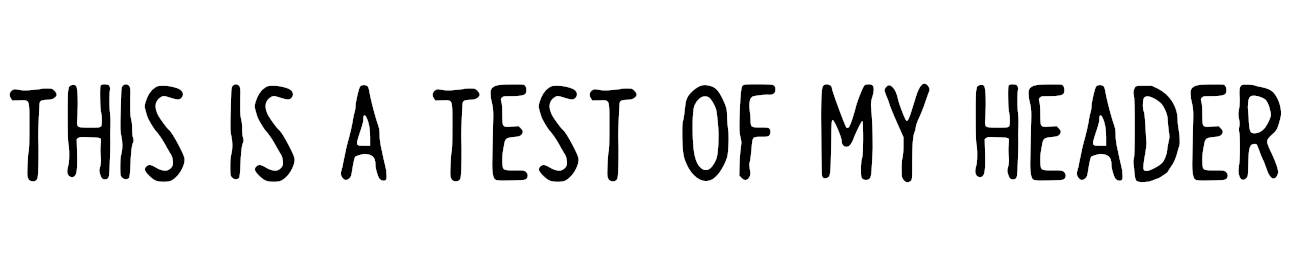
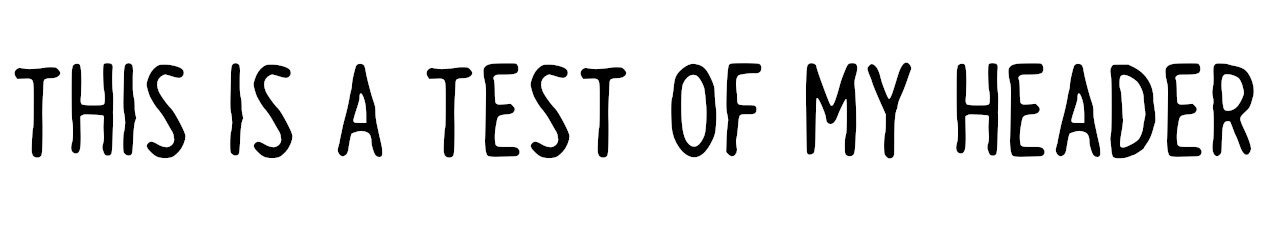
changed header test image to scale better hopefully

diff --git a/public/NewLook/index.html b/public/NewLook/index.html
@@ -13,7 +13,7 @@
 <body>
     <div id="container">
         <div id="headerArea">
-            <div id="header"><img src="https://hazelhen.neocities.org/Imagess/bgbubl.jpg" alt="Header" width="100%" height="100%"></div>
+            <div id="header"></div>
             <nav id="navbar" style="margin-bottom: 10px;">
                 <ul>
                     <li><a href="https://hazelhen.neocities.org">Home</a></li>
@@ -85,7 +85,7 @@ these tended to confuse some people, so I only kept
 the images as variables */
 
 :root {
-    --header-image: url('https://hazelhen.neocities.org/Imagess/steviekitty.png');
+    --header-image: url('https://hazelhen.neocities.org/Imagess/headertest.png');
 
     /* colors */
     --content: #43256E;
@@ -139,9 +139,7 @@ text-decoration:none; */
 }
 
 #header {
-    position: relative;
-    max-width:100%;
-    max-height:100%;
+    position: unset;
     background-color: #5e4e8c;
     margin: 0 auto;
     
@@ -151,7 +149,7 @@ text-decoration:none; */
     /* if you want to put images IN the header, 
 you can add them directly to the <div id="header"></div> element! */
     background-image: var(--header-image);
-    background-size: 1
+    background-size: cover;
 }
 
 /* navigation section!! */
